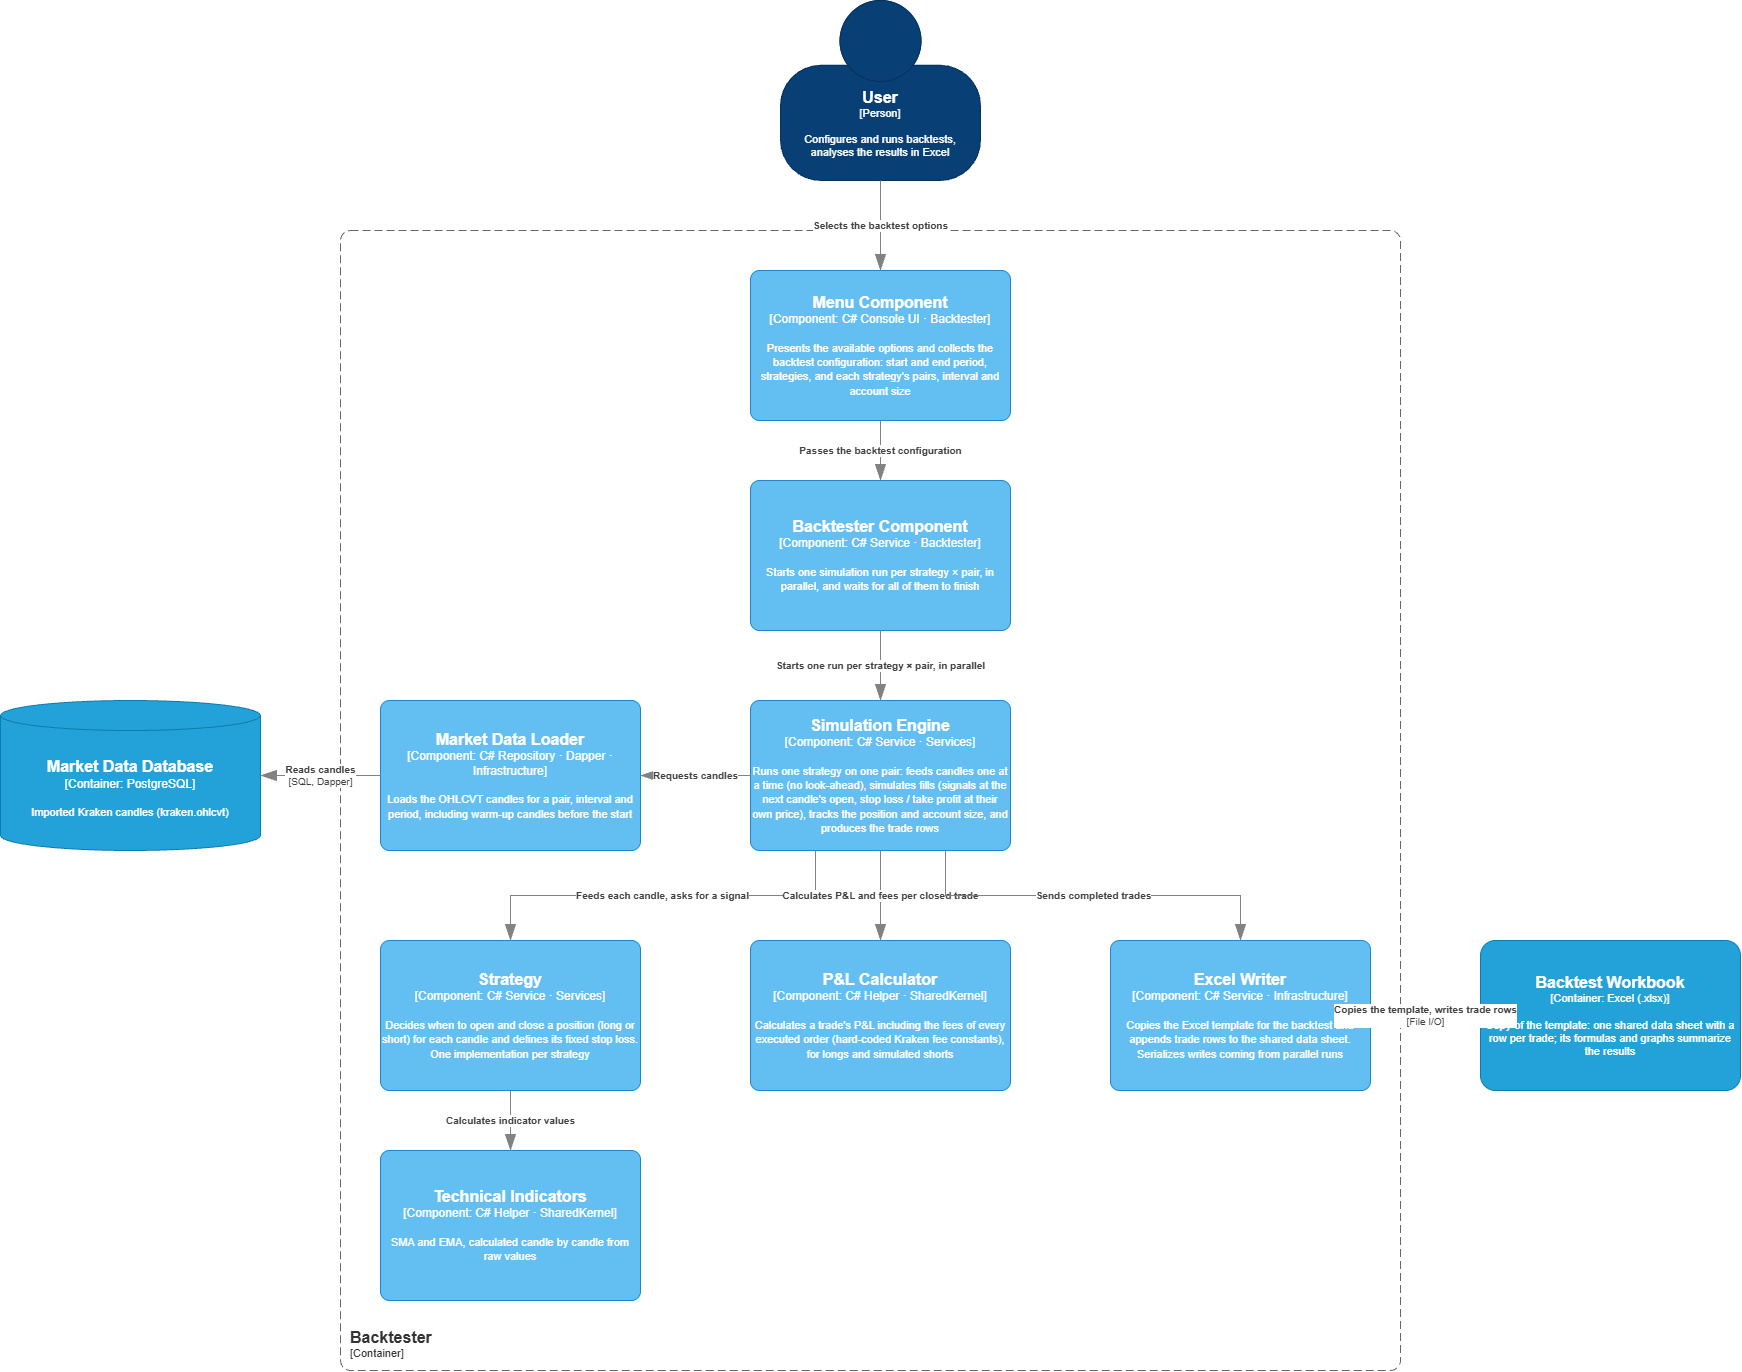
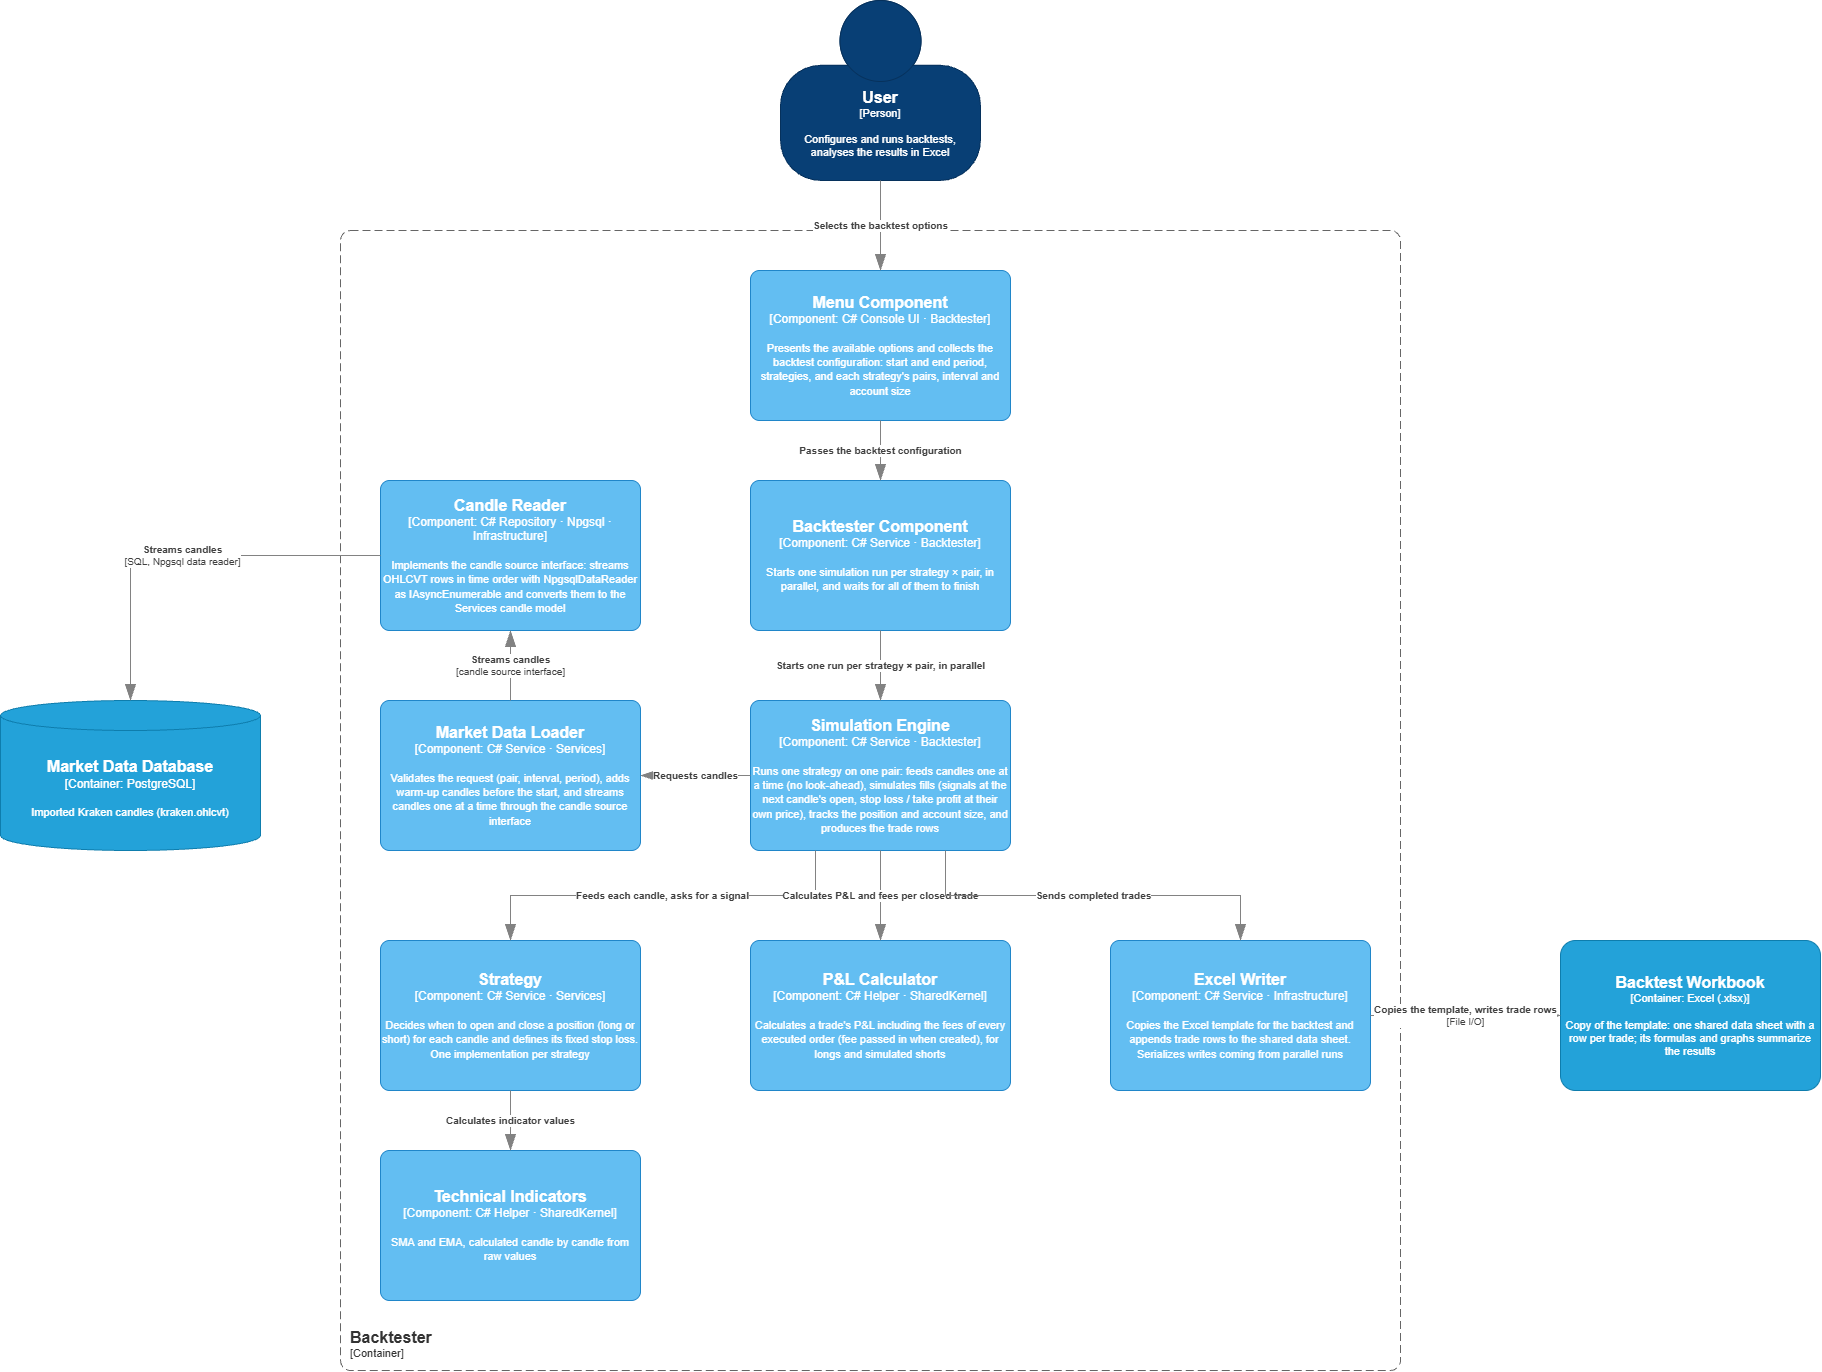
Document streamed candles and layering for the Backtester
- backtester.md: layers (Services core, Infrastructure implementations,
  engine in Backtester), strategies keeping their own streaming state,
  candles streamed via IAsyncEnumerable/NpgsqlDataReader, fee passed to
  the generic P&L calculator, warm-up and day-boundary open questions,
  entry/exit reason columns and end-of-backtest closes
- CLAUDE.md: PnLCalculator, PositionDirection and the layering rule
- C4 diagram: Candle Reader component, engine moved to Backtester,
  loader moved to Services; re-exported PNG
- Remove the Class1 placeholder from TradeR.Services

diff --git a/docs/backtester.md b/docs/backtester.md
@@ -41,6 +41,25 @@ C4 component diagram of the Backtester:
 
 The editable source, which also has the System Context and Containers pages, is [images/tradeR_c4.drawio](images/tradeR_c4.drawio).
 
+### Layers
+- **Services** is the application core. It holds:
+  - the own models: candle, signal (with its reason), trade and position;
+  - the strategy interface and the strategies;
+  - the interfaces the core consumes, such as the historical candle source;
+  - the Market Data Loader.
+- **Infrastructure** holds the implementations of those interfaces:
+  - the database candle reader, which converts rows into the Services candle model;
+  - the Excel writer;
+  - all database code (the Importer's data access moves here too);
+  - the Kraken REST client, which stays a Kraken-specific detail.
+- **Backtester** holds the menu, the simulation engine and the composition root (DI registration). The simulation engine lives here because simulated fills only make sense in a backtest.
+- **Dependency rule:** Infrastructure → Services → SharedKernel. Services never references Infrastructure. An interface lives with the code that consumes it.
+
+## Strategies
+- A strategy receives **one candle at a time** and keeps only the state it needs, never the full candle history:
+  - streaming indicators (`Create` + `Add`), which keep only their own window;
+  - per-day values such as the previous day's high, low or VWAP. The strategy updates today's values on every candle. When a candle from a new day arrives, it saves them as the previous day's values and starts again.
+
 ## Parallel strategy execution
 - Multiple strategies run in parallel.
 - Strategies are independent of each other. One strategy's execution does not affect another's.
@@ -66,8 +85,13 @@ The editable source, which also has the System Context and Containers pages, is 
 | P&L | Profit or loss, including the fees, in the pair's currency |
 | Open time | When the position was opened (UTC) |
 | Close time | When the position was closed (UTC) |
+| Entry reason | What triggered the entry, as described by the strategy, e.g. "EMA 9 crossed above EMA 21" |
+| Exit reason | What triggered the exit: the strategy's own description of its exit signal, Stop loss, Take profit, or End of backtest |
 
 Hold time is calculated in the template from the open and close times.
+
+- **Signals carry their reason.** A strategy's signal is more than "enter" or "exit": it also includes a description of why it fired, which becomes the Entry reason or Exit reason. Stop loss and take profit exits are detected by the engine, which writes those reasons itself.
+- **Positions still open at the end date** are closed automatically when the backtest ends, at the **close price of the last candle**, with "End of backtest" as the Exit reason. They are written to the sheet like any other trade, but **don't count toward the total P&L**. The template's totals leave out rows with that Exit reason.
 
 - The template's formulas operate on the shared data sheet and produce the aggregations and graphs automatically. The Backtester writes the trades and nothing else; all analysis lives in the template.
 - Writing to the workbook must be thread-safe: strategies run in parallel and may finish at the same time, and they all write to the same sheet.
@@ -77,11 +101,23 @@ Hold time is calculated in the template from the open and close times.
 - **Stop loss and take profit fills:** they fill **at their own price** (the stop price or the take profit price) as soon as a candle's low or high reaches it:
   - Long: the stop loss fills when the candle's low reaches the stop; the take profit when the candle's high reaches the target.
   - Short: the stop loss fills when the candle's high reaches the stop; the take profit when the candle's low reaches the target.
-- **Fees:** hard-coded constants based on Kraken's fees.
+- **Fees:** the fee is passed to the generic P&L calculator (SharedKernel) when it's created. The Backtester passes Kraken's fee.
 - **Slippage:** ignored.
 
 ## Data
 - Candles come from the imported Kraken OHLCVT data (`kraken.ohlcvt`). Trade (time & sales) data is not used.
+- **Candles are streamed, never fully loaded.** They're read in time order as an `IAsyncEnumerable` backed by an `NpgsqlDataReader`, so memory stays flat however long the period is. The `UNIQUE (asset_pair, interval_minutes, timestamp)` index supports this ordered range read.
+- **Each run** (strategy × pair) holds one database connection while it streams. The default pool of 100 connections is enough for now.
+- **Timeouts:**
+  - Connection Lifetime is only checked when a connection goes back to the pool, so it doesn't cut off a running stream.
+  - Command Timeout (30 s) applies to each wait for data from the server. Sitting on a debugger breakpoint is the only realistic way to exceed it.
+- **A database error mid-stream** propagates as an exception.
 
 ## Open questions
 - **Both levels in one candle (deferred):** if a single candle's range reaches both the stop loss and the take profit, the candle doesn't say which came first. Not decided yet. Options: count the stop loss (conservative), or look at smaller-interval candles to decide.
+- **Warm-up:** indicators need candles before the start date (a 200-period EMA has no value for its first 199 candles), and so do per-day values (there's no previous day on the first day). Not decided yet:
+  - how many candles before the start date to stream;
+  - who decides that number (each strategy?).
+  
+  Candles before the start date feed the strategy, but no trades are taken on them.
+- **Day boundary:** crypto trades 24/7, so a "day" needs a definition. Not decided yet whether it's midnight UTC or a cut-off each strategy chooses. A new day should be detected by comparing candle dates, not by counting candles, because Kraken skips minutes with no trades.

diff --git a/CLAUDE.md b/CLAUDE.md
@@ -30,13 +30,19 @@ Projects and dependencies (arrows point to what is referenced):
 - **TradeR.SharedKernel**: no dependencies. Contains the platform-independent building blocks:
   - `Results/`: `Result`, `Result<T>`, `Error`.
   - `Indicators/`: SMA, EMA, `IndicatorErrors`.
+  - `Common/PnLCalculator`: a generic P&L calculator, not tied to any exchange. The fee is passed to its constructor. A partial close pays only its share of the opening fee. Invalid input throws.
+  - `Enums/PositionDirection`: `Long`, `Short`.
 - **TradeR.Infrastructure** → SharedKernel. **Everything that talks to the outside world goes here** (HTTP APIs, database scripts). Today it holds:
   - the Kraken REST client (`IKrakenRESTApiClient`, `GET /0/public/OHLC` only);
   - its DI registration, `services.AddKrakenRESTApi(configuration)`, which sets up a named `HttpClient` (`KrakenRESTApiClient.HttpClientName`) with `AddStandardResilienceHandler()` and an optional `Kraken:BaseUrl` setting;
   - the SQL schema script.
 - **Importer** (console) → Infrastructure, Services. Loads Kraken's historical CSV dumps.
-- **Backtester** (console) → Infrastructure, Services. Still a stub.
+- **Backtester** (console) → Infrastructure, Services. Still a stub. Its design (streamed candles, layers, fills, Excel output) is in `docs/backtester.md`.
 - **TradeR.Services**: an empty placeholder.
+- **Layering rule** (the target design; the project references aren't wired up this way yet):
+  - Services is the application core. It owns the models and the interfaces it consumes, e.g. the historical candle source.
+  - Infrastructure implements those interfaces, so the references run Infrastructure → Services → SharedKernel. Services never references Infrastructure.
+  - An interface lives with the code that consumes it. Exchange-specific clients such as `IKrakenRESTApiClient` stay in Infrastructure.
 - **TradeR.Tests** (NUnit): one test project for the whole solution, with folders mirroring the area under test (e.g. `SharedKernel/Indicators/`).
 - The `Screener/` folder only contains leftover `bin`/`obj`. That project was removed.
 
